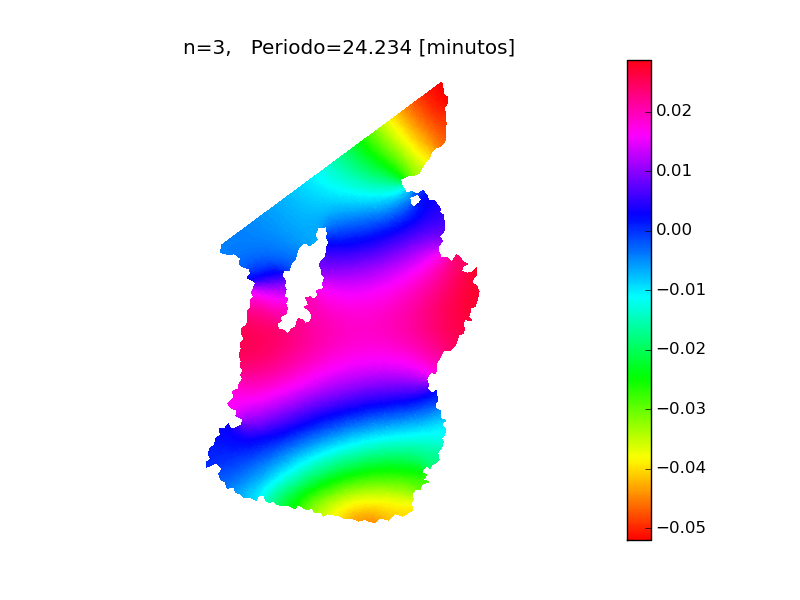
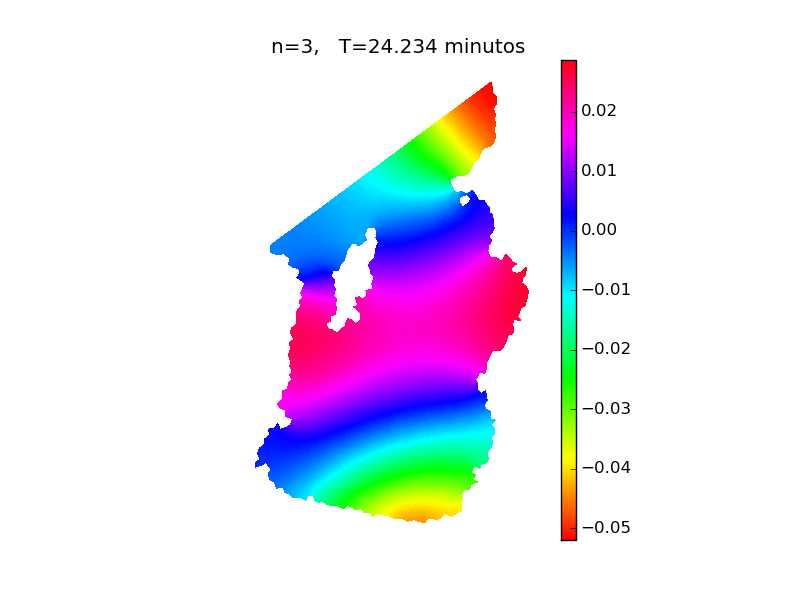
+bahia talcahuano

Changed region(s): [[0.25, 0.09, 0.875, 0.93], [0.3125, 0.06, 0.6562, 0.09], [0.2188, 0.06, 0.2812, 0.09]]

diff --git a/bahia_talcahuano/plotmodos.py b/bahia_talcahuano/plotmodos.py
@@ -2,6 +2,7 @@ import numpy as np
 import matplotlib.pyplot as plt
 #from matplotlib import cm
 from helmholtz import *
+from mpl_toolkits.axes_grid1 import make_axes_locatable
 #import pypar
 #r = pypar.rank()
 
@@ -30,14 +31,20 @@ def plotmany(nind,iv,l,v):
     print ind
     u=np.array(v[:,iv[ind]])
     plt.figure()
-    Tri3SolPlot(xyz,IEN,u,5)
+    im=Tri3SolPlot(xyz,IEN,u,5)
     plt.axis('equal')
     plt.axis('off')
-    plt.colorbar()
-    w=2.*np.pi/np.sqrt(l[iv[ind]])
-    plt.title('n=%i,   Periodo=%.3f [minutos]'%(ind,w/60 ) )
+  
+    plt.title('n=%i,   T=%.3f minutos'%(ind,w/60 ) )
+    #plt.colorbar(orientation='horizontal')
+    ax=plt.gca()
+    divider = make_axes_locatable(ax)
+    cax = divider.append_axes("right", size="5%", pad=0.1)
+    cb=plt.colorbar(im, cax=cax)
+    
+    
     plt.savefig('modos%i.png'%ind)
     plt.close()
-plotmany(4,iv1,l1,v1)
+plotmany(20,iv1,l1,v1)
 #pypar.finalize()
   

diff --git a/bahia_talcahuano/helmholtz.py b/bahia_talcahuano/helmholtz.py
@@ -208,4 +208,5 @@ def Tri3SolPlot(xyz,IEN,u,Ninterp):
 	x1[a1,a2]=xhat[0]
 	x2[a1,a2]=xhat[1]
     uinterp=griddata(xeset,ueset,(x1,x2))
-    plt.pcolormesh(x1,x2,uinterp,vmin=u.min(),vmax=u.max(),cmap=cm.hsv)
+    p=plt.pcolormesh(x1,x2,uinterp,vmin=u.min(),vmax=u.max(),cmap=cm.hsv)
+  return p
